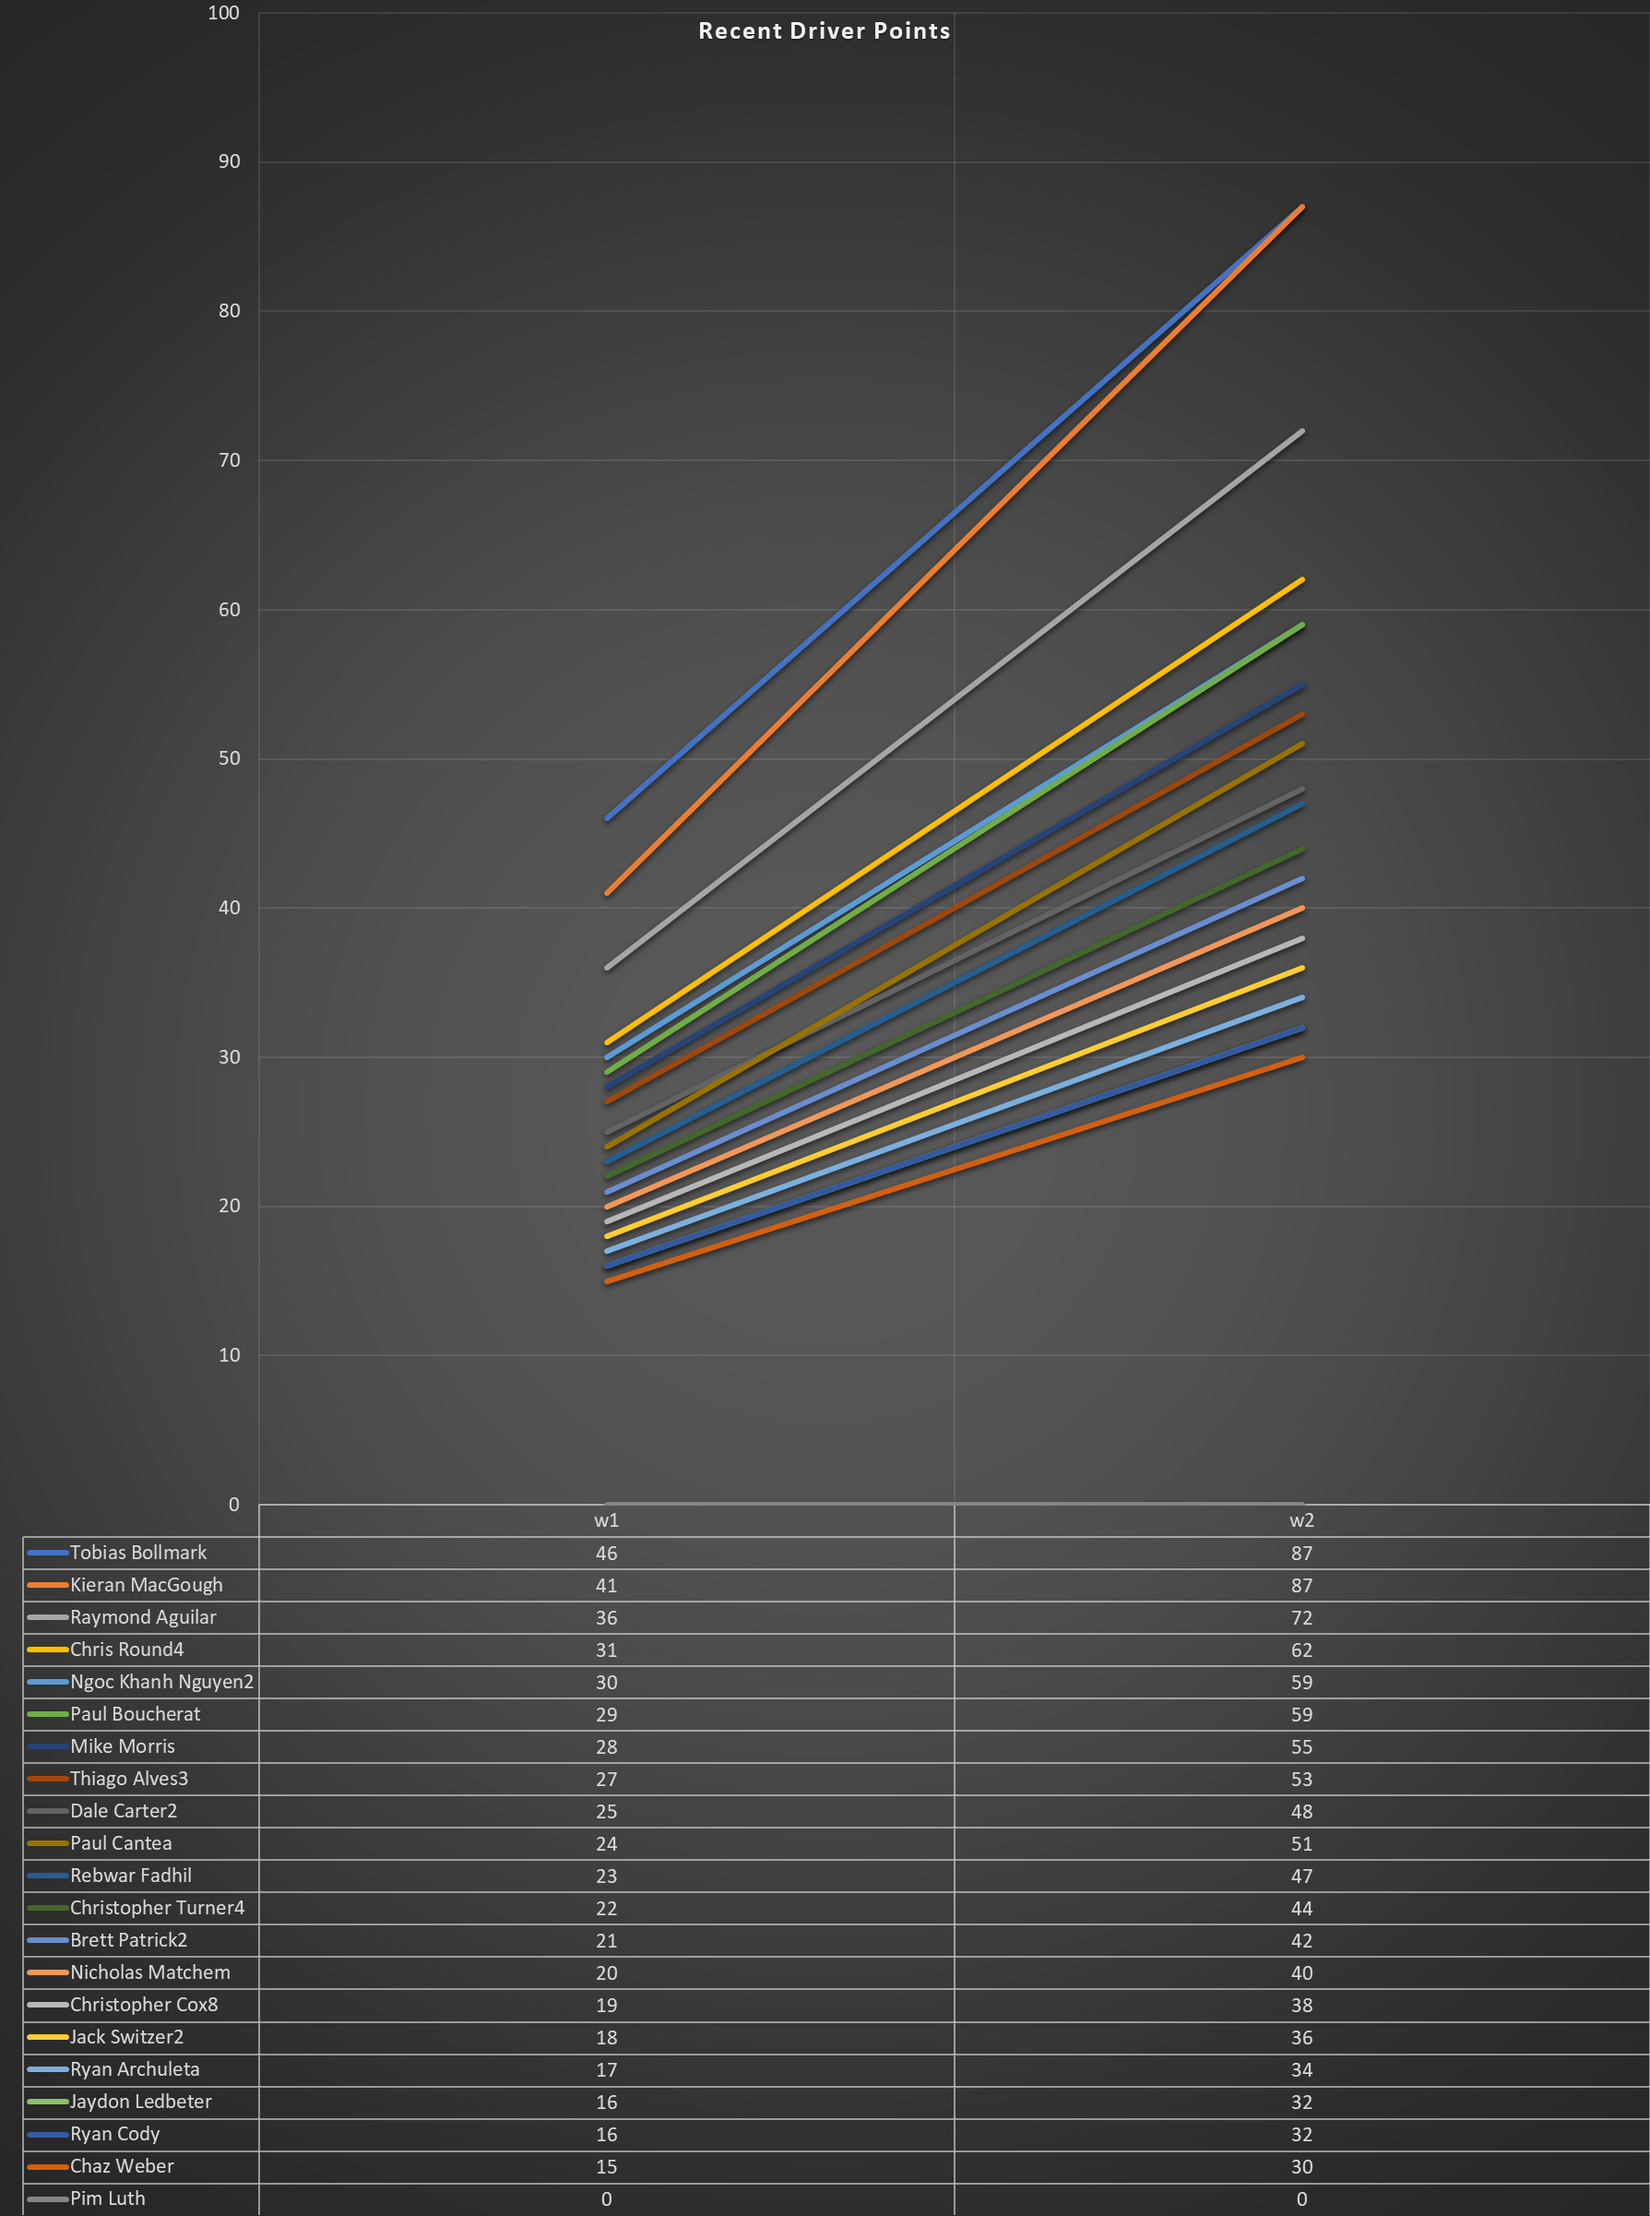
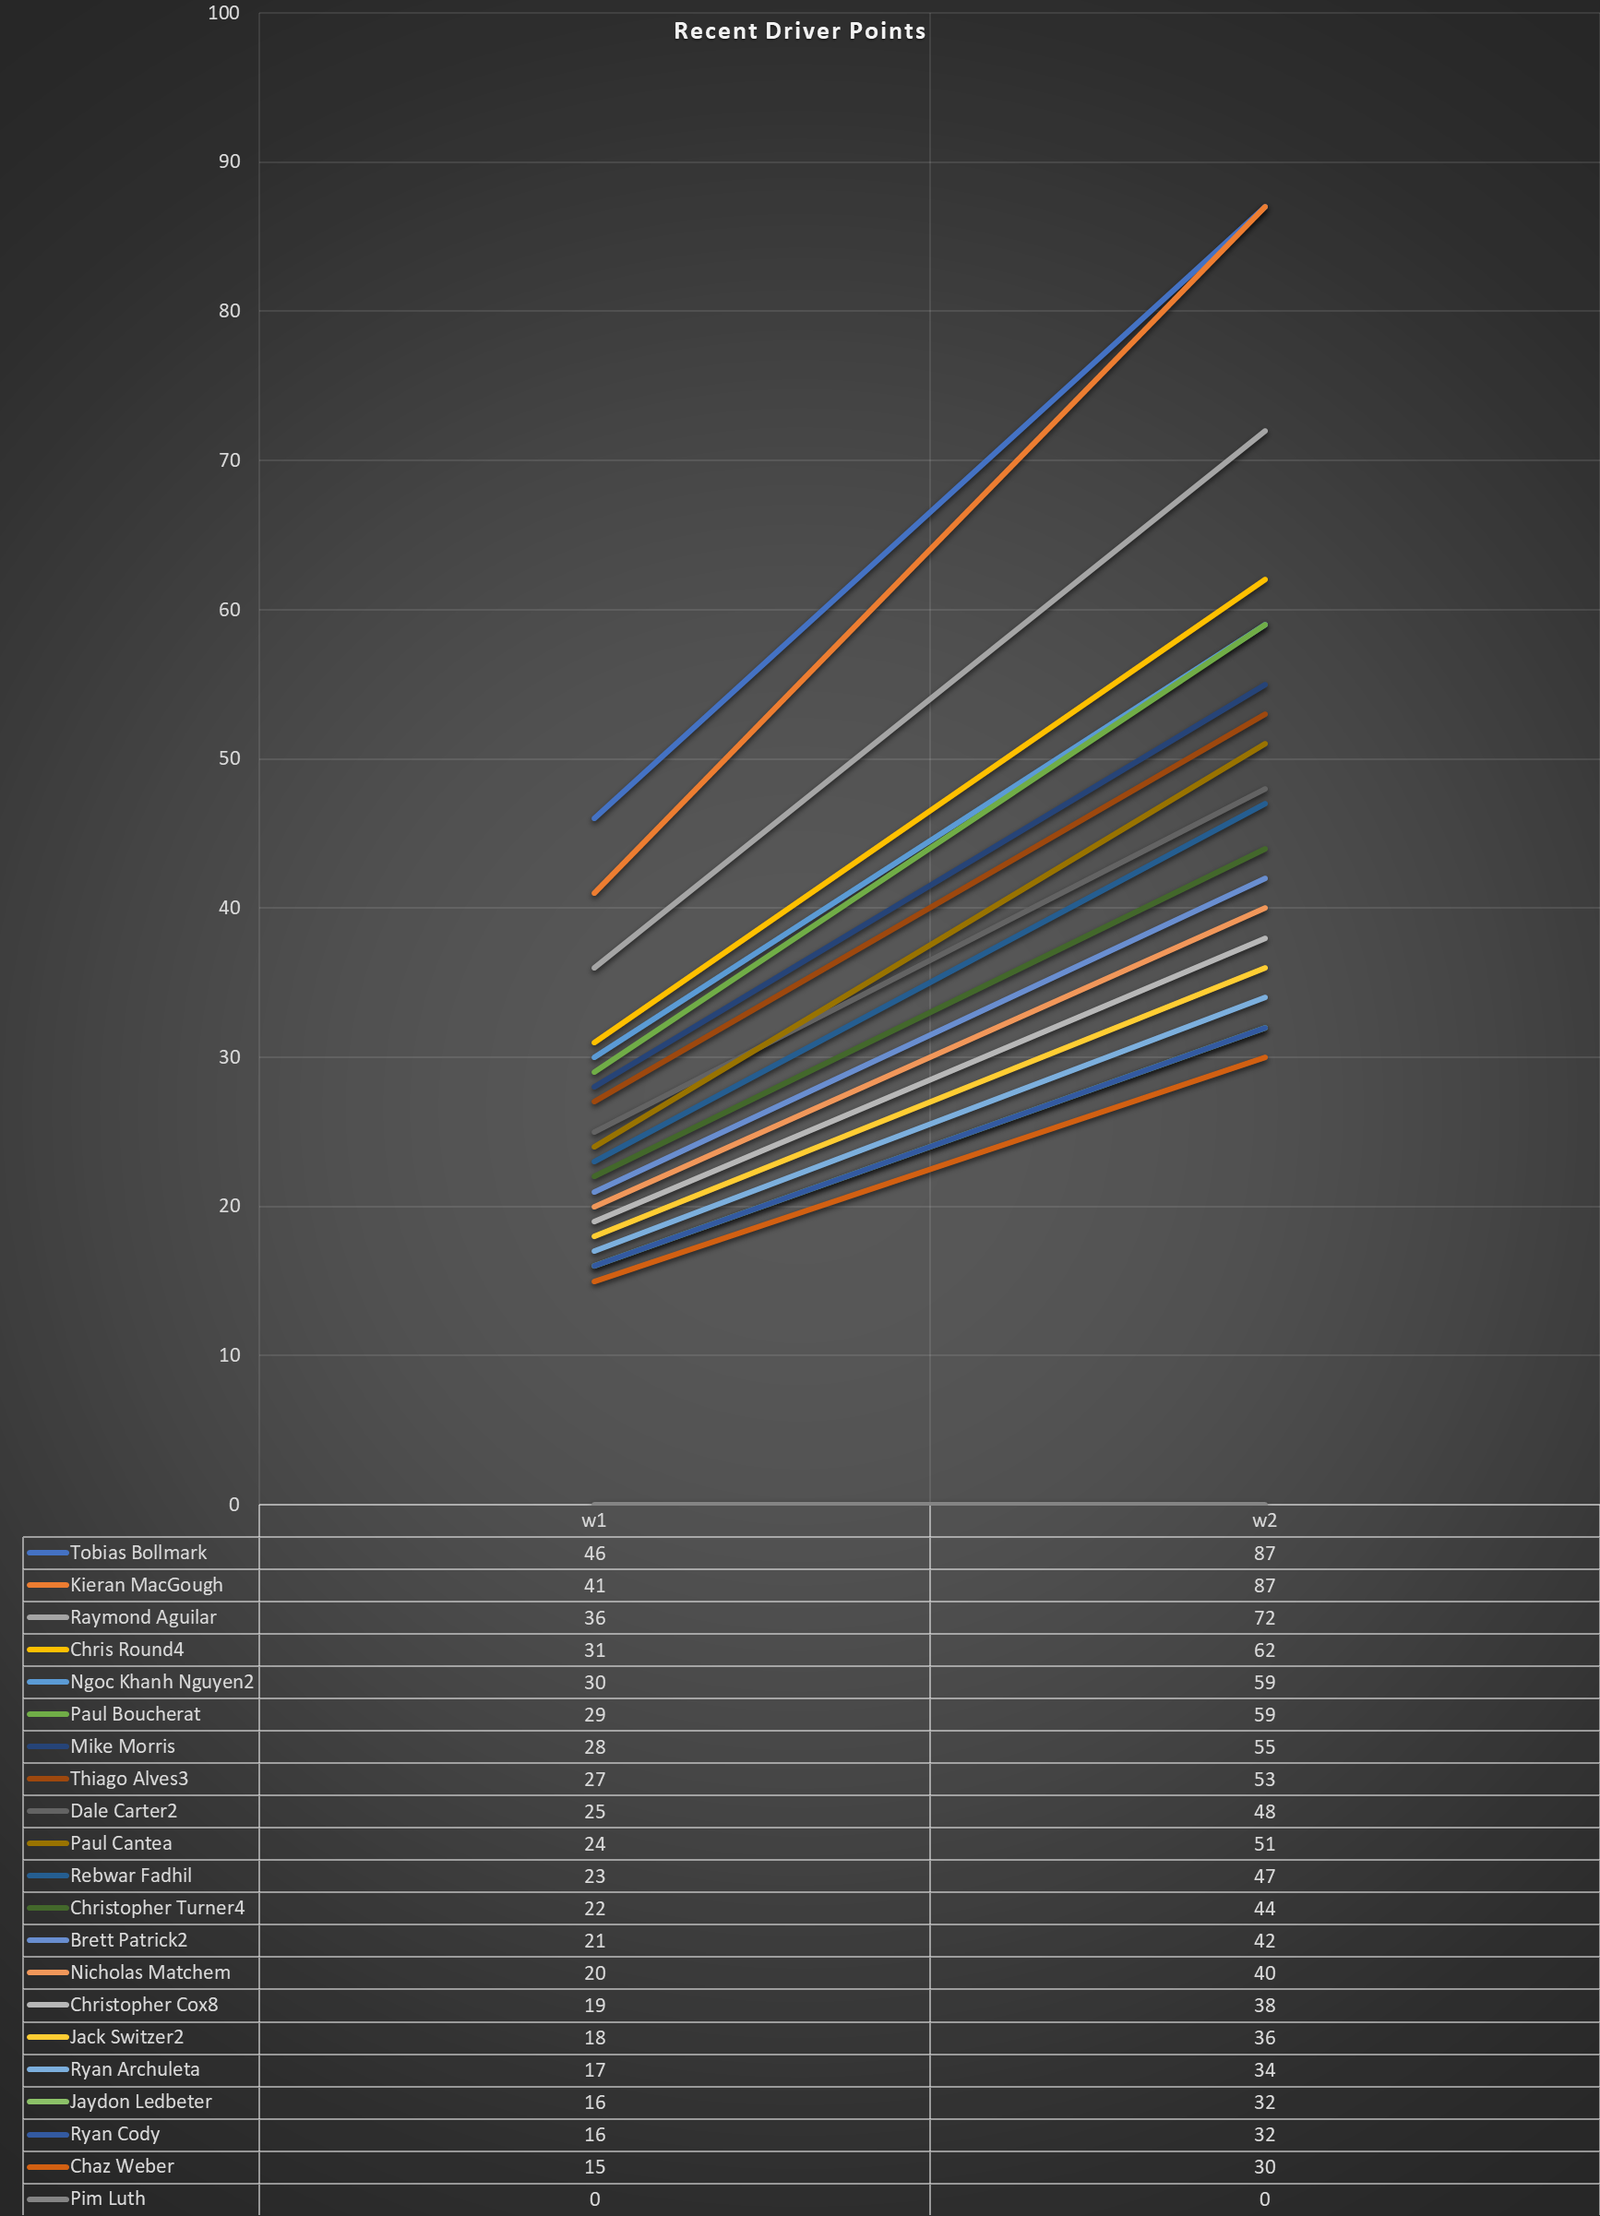
up

diff --git a/baby_1_recent-driver-points-chart.htm b/baby_1_recent-driver-points-chart.htm
@@ -50,12 +50,12 @@ tags will be replaced.-->
 
 <div id="Excel_Baby_26468" align=center x:publishsource="Excel">
 
-<table border=0 cellpadding=0 cellspacing=0 width=1145 style='border-collapse:
- collapse;table-layout:fixed;width:859pt'>
- <col width=1145 style='mso-width-source:userset;mso-width-alt:41874;
- width:859pt'>
+<table border=0 cellpadding=0 cellspacing=0 width=1110 style='border-collapse:
+ collapse;table-layout:fixed;width:833pt'>
+ <col width=1110 style='mso-width-source:userset;mso-width-alt:40594;
+ width:833pt'>
  <tr height=500 style='mso-height-source:userset;height:375.0pt'>
-  <td height=500 width=1145 style='height:375.0pt;width:859pt' align=left
+  <td height=500 width=1110 style='height:375.0pt;width:833pt' align=left
   valign=top><!--[if gte vml 1]><v:shapetype id="_x0000_t75" coordsize="21600,21600"
    o:spt="75" o:preferrelative="t" path="m@4@5l@4@11@9@11@9@5xe" filled="f"
    stroked="f">
@@ -78,7 +78,7 @@ tags will be replaced.-->
    <o:lock v:ext="edit" aspectratio="t"/>
   </v:shapetype><v:shape id="Chart_x0020_Recent_x0020_Driver_x0020_Points"
    o:spid="_x0000_s1025" type="#_x0000_t75" style='position:absolute;
-   margin-left:0;margin-top:0;width:858.75pt;height:1152.75pt;z-index:1;
+   margin-left:0;margin-top:0;width:832.5pt;height:1152.75pt;z-index:1;
[3 lines of base64/hex data omitted]
@@ -241,32 +241,32 @@ XXXRE4wGO1iyPZHtps3ta0ihhapI4N3M139/ZiQf0VdImtxbuGuRfBptY8PXrA3hWnHusRUGfGoU
[28 lines of base64/hex data omitted]
-c1BLBQYAAAAACQAJAFICAABSJwAAAAA=
[15 lines of base64/hex data omitted]
+AAAsAwAAEwAAAAAAAAAAAAAAAAAAAAAAW0NvbnRlbnRfVHlwZXNdLnhtbFBLAQItABQABgAIAAAA
[1 lines of base64/hex data omitted]
+IQDBgJwaxgEAAPAEAAAOAAAAAAAAAAAAAAAAAGoCAABkcnMvZTJvRG9jLnhtbFBLAQItABQABgAI
[7 lines of base64/hex data omitted]
+bHNQSwUGAAAAAAkACQBSAgAAUycAAAAA
 ">
    <v:imagedata src="baby_1_recent-driver-points-chart_files/Excel_Baby_26468_image001.png"
     o:title=""/>
@@ -277,14 +277,14 @@ c1BLBQYAAAAACQAJAFICAABSJwAAAAA=
     <x:AutoPict/>
    </x:ClientData>
   </v:shape><![endif]--><![if !vml]><span style='mso-ignore:vglayout;
-  position:absolute;z-index:1;margin-left:0px;margin-top:0px;width:1145px;
-  height:1537px'><img width=1145 height=1537
+  position:absolute;z-index:1;margin-left:0px;margin-top:0px;width:1110px;
+  height:1537px'><img width=1110 height=1537
   src="baby_1_recent-driver-points-chart_files/Excel_Baby_26468_image002.png"
   v:shapes="Chart_x0020_Recent_x0020_Driver_x0020_Points"></span><![endif]><span
   style='mso-ignore:vglayout2'>
   <table cellpadding=0 cellspacing=0>
    <tr>
-    <td height=500 class=xl1526468 width=1145 style='height:375.0pt;width:859pt'></td>
+    <td height=500 class=xl1526468 width=1110 style='height:375.0pt;width:833pt'></td>
    </tr>
   </table>
   </span></td>
@@ -300,7 +300,7 @@ c1BLBQYAAAAACQAJAFICAABSJwAAAAA=
  </tr>
  <![if supportMisalignedColumns]>
  <tr height=0 style='display:none'>
-  <td width=1145 style='width:859pt'></td>
+  <td width=1110 style='width:833pt'></td>
  </tr>
  <![endif]>
 </table>
@@ -314,6 +314,7 @@ c1BLBQYAAAAACQAJAFICAABSJwAAAAA=
 </body>
 
 </html>
+
 
 
 

diff --git a/penalties_w1.htm b/penalties_w1.htm
@@ -2848,3 +2848,4 @@ tags will be replaced.-->
 
 
 
+

diff --git a/penalties_w10.htm b/penalties_w10.htm
@@ -2847,3 +2847,4 @@ tags will be replaced.-->
 
 
 
+

diff --git a/penalties_w11.htm b/penalties_w11.htm
@@ -2847,3 +2847,4 @@ tags will be replaced.-->
 
 
 
+

diff --git a/penalties_w12.htm b/penalties_w12.htm
@@ -2846,3 +2846,4 @@ tags will be replaced.-->
 
 
 
+

diff --git a/penalties_w2.htm b/penalties_w2.htm
@@ -2848,3 +2848,4 @@ tags will be replaced.-->
 
 
 
+

diff --git a/penalties_w3.htm b/penalties_w3.htm
@@ -2848,3 +2848,4 @@ tags will be replaced.-->
 
 
 
+

diff --git a/penalties_w4.htm b/penalties_w4.htm
@@ -2848,3 +2848,4 @@ tags will be replaced.-->
 
 
 
+

diff --git a/penalties_w5.htm b/penalties_w5.htm
@@ -2846,3 +2846,4 @@ tags will be replaced.-->
 
 
 
+

diff --git a/penalties_w6.htm b/penalties_w6.htm
@@ -2847,3 +2847,4 @@ tags will be replaced.-->
 
 
 
+

diff --git a/penalties_w7.htm b/penalties_w7.htm
@@ -2847,3 +2847,4 @@ tags will be replaced.-->
 
 
 
+

diff --git a/penalties_w8.htm b/penalties_w8.htm
@@ -2847,3 +2847,4 @@ tags will be replaced.-->
 
 
 
+
